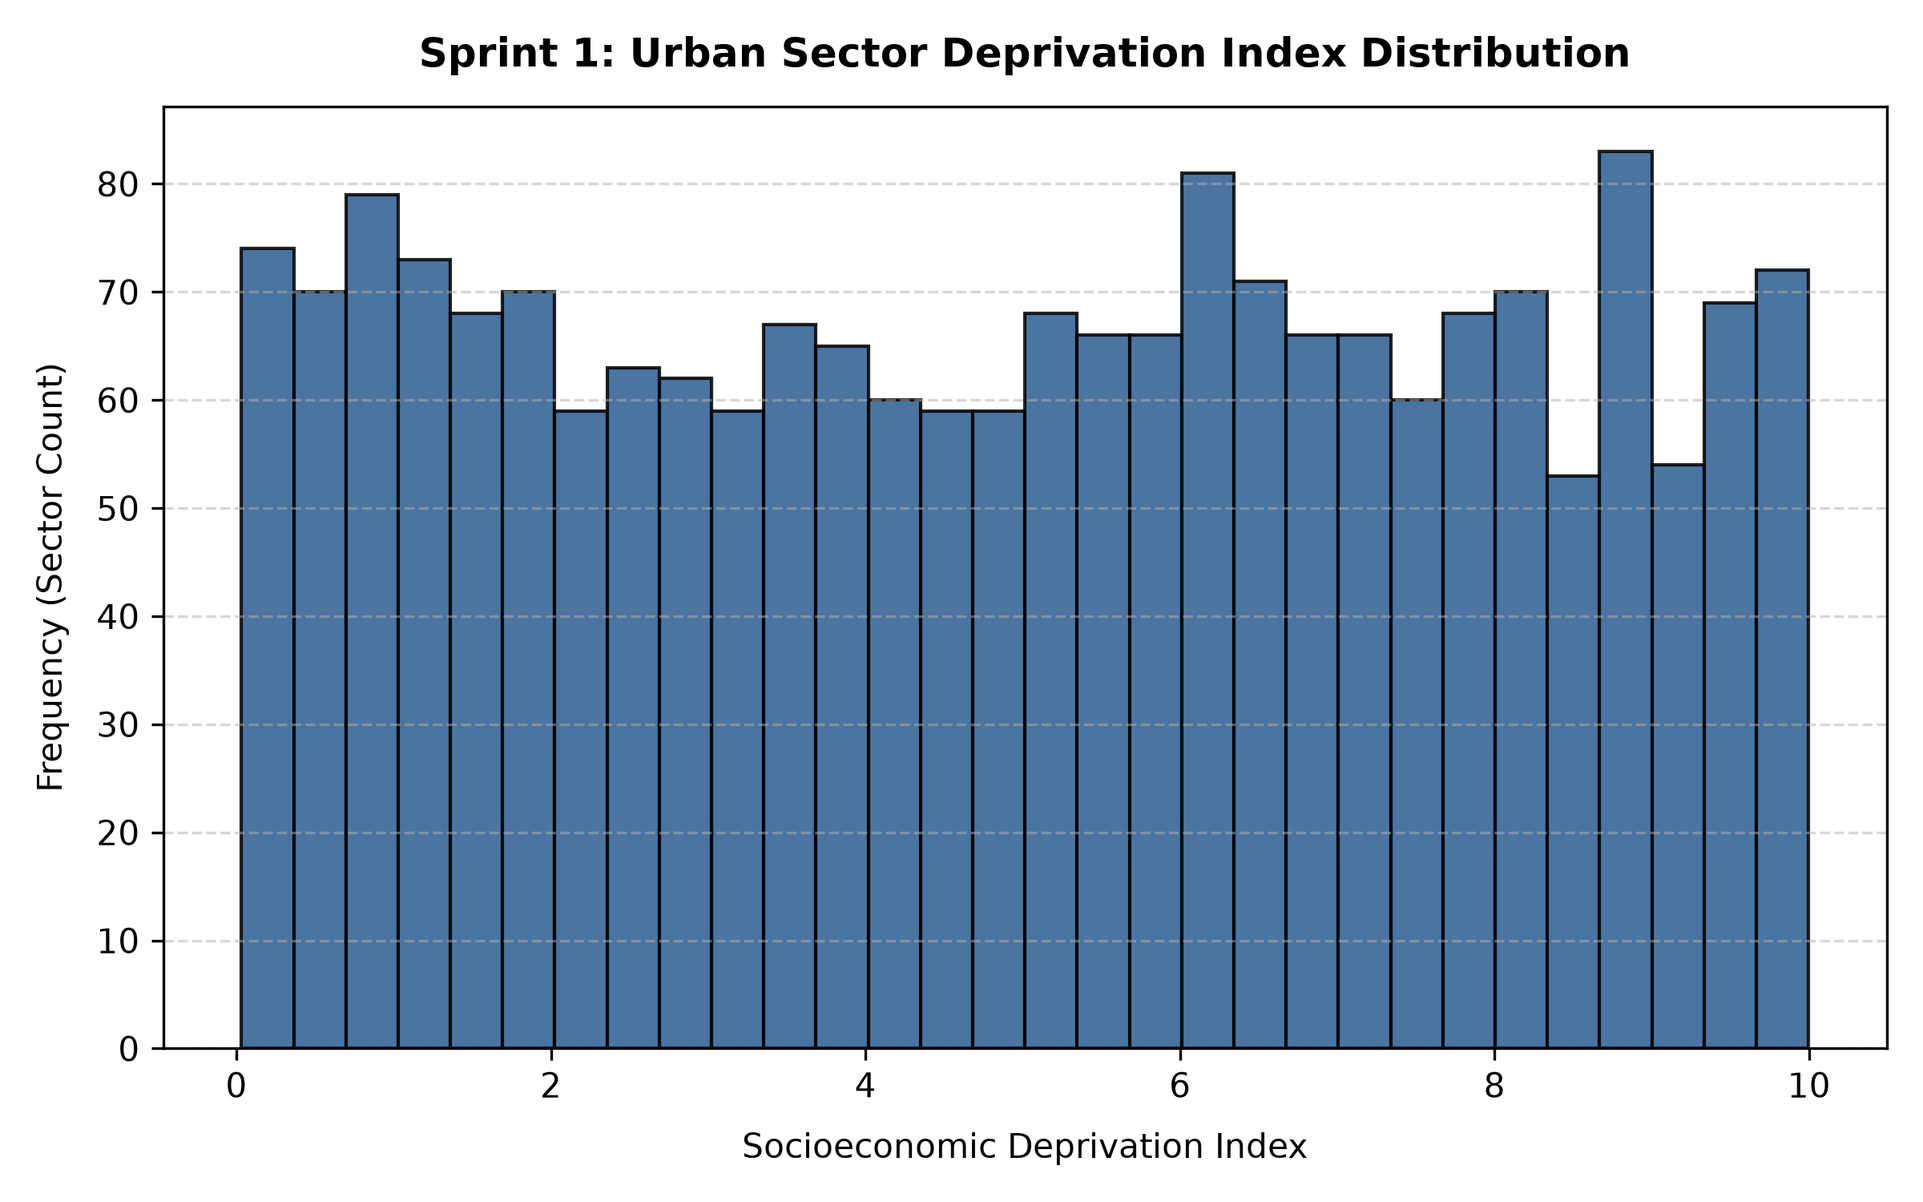
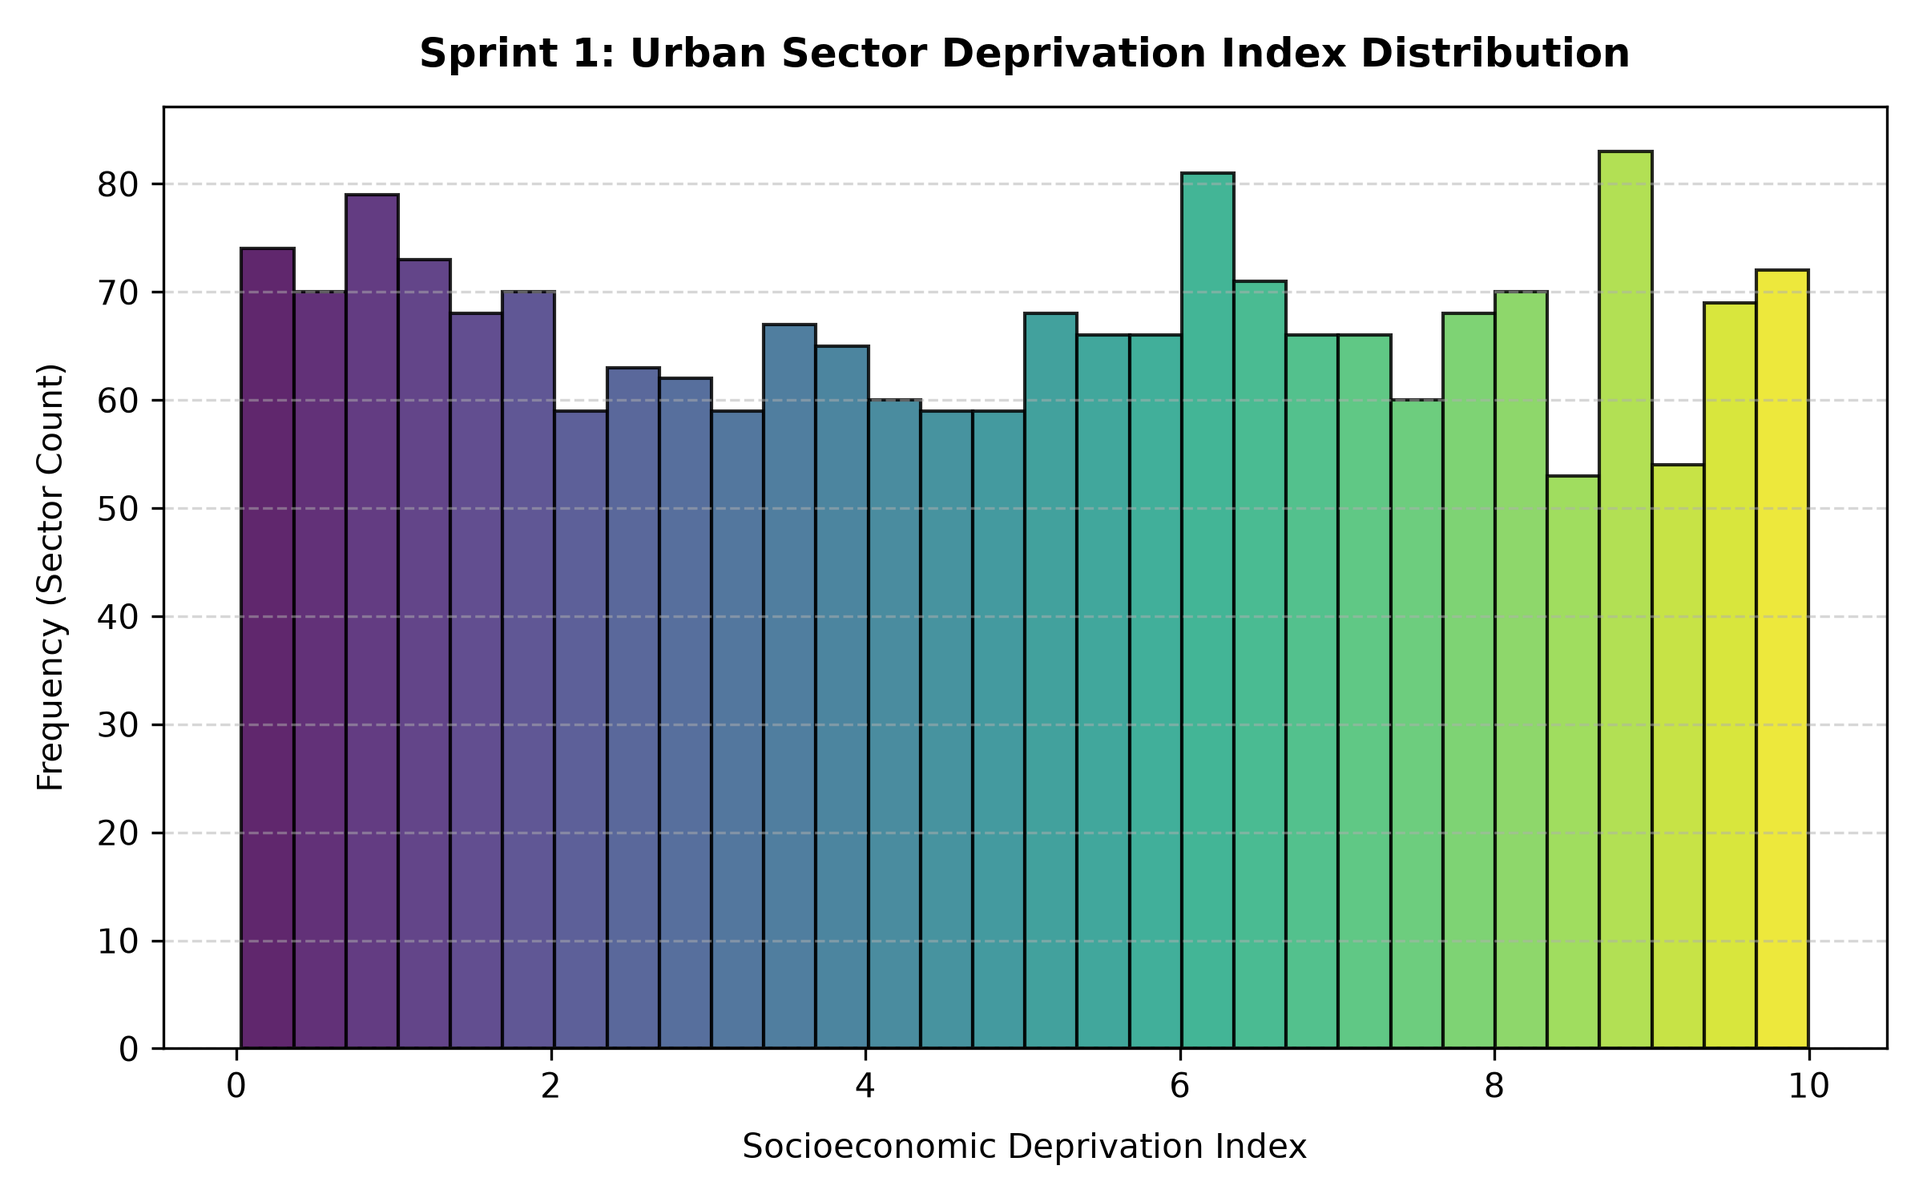
Preparing executive deployment

diff --git a/app.py b/app.py
@@ -1,0 +1,340 @@
+import streamlit as st
+import pandas as pd
+import numpy as np
+import matplotlib.pyplot as plt
+from sklearn.ensemble import RandomForestRegressor
+from sklearn.model_selection import train_test_split
+from sklearn.preprocessing import StandardScaler
+import datetime
+import os
+
+# --- PAGE CONFIGURATION ---
+st.set_page_config(
+    page_title="Municipal Risk Command Centre",
+    page_icon="🛡",
+    layout="wide",
+    initial_sidebar_state="expanded"
+)
+
+# --- ADVANCED EXECUTIVE STYLING ---
+st.markdown("""
+    <style>
+    .main { background-color: #0b0f19; color: #f3f4f6; }
+    
+    /* Top Enterprise Header Bar */
+    .enterprise-header {
+        display: flex;
+        justify-content: space-between;
+        align-items: center;
+        background-color: #111827;
+        padding: 10px 20px;
+        border-radius: 8px;
+        border: 1px solid #1f2937;
+        margin-bottom: 15px;
+    }
+    .header-left { display: flex; align-items: center; gap: 12px; }
+    .header-logo-text { font-size: 1.1rem; font-weight: 800; color: #3b82f6; letter-spacing: 0.5px; }
+    .header-breadcrumbs { font-size: 0.8rem; color: #9ca3af; margin-bottom: 5px; font-weight: 600; text-transform: uppercase; letter-spacing: 0.5px; }
+    .header-profile { font-size: 0.85rem; font-weight: 600; color: #9ca3af; background: #1f2937; padding: 5px 10px; border-radius: 20px; }
+
+    /* Metric Cards */
+    .metric-card {
+        background-color: #111827;
+        padding: 18px;
+        border-radius: 8px;
+        border: 1px solid #1f2937;
+        box-shadow: 0 4px 6px -1px rgba(0, 0, 0, 0.1);
+    }
+    .metric-title { font-size: 0.85rem; text-transform: uppercase; color: #9ca3af; font-weight: 700; letter-spacing: 0.5px; }
+    .metric-value { font-size: 1.8rem; font-weight: 800; color: #ffffff; margin-top: 5px; }
+
+    /* Custom Highlight Box */
+    .highlight-card {
+        background-color: #161f30;
+        padding: 20px;
+        border-radius: 8px;
+        border-left: 4px solid #3b82f6;
+        border-top: 1px solid #1f2937;
+        border-right: 1px solid #1f2937;
+        border-bottom: 1px solid #1f2937;
+    }
+    </style>
+""", unsafe_allow_html=True)
+
+# --- BREADCRUMBS & TOP HEADER BAR ---
+st.markdown('<div class="header-breadcrumbs">HOME > DASHBOARD > MUNICIPAL GOVERNANCE</div>', unsafe_allow_html=True)
+
+header_col1, header_col2, header_col3 = st.columns([2, 3, 2])
+with header_col1:
+    if os.path.exists("logo3.png"):
+        st.image("logo3.png", width=40)
+    else:
+        st.markdown('<div class="header-logo-text">🛡 MUNICIPAL SUITE</div>', unsafe_allow_html=True)
+with header_col2:
+    st.markdown('<div style="color: #9ca3af; font-size: 0.85rem; padding-top: 8px;">🔍 Search spatial metrics, LSOAs, or models...</div>', unsafe_allow_html=True)
+with header_col3:
+    st.markdown('<div style="text-align: right;"><span style="margin-right: 15px;">🔔 3</span><span style="margin-right: 15px;">❓</span><span class="header-profile">👤 MICHELLE K. ASANTE (MSc)</span></div>', unsafe_allow_html=True)
+
+st.markdown("---")
+
+# --- SIDEBAR GLOBAL CONTROLS ---
+st.sidebar.markdown("### 🎛 Pipeline Settings")
+uploaded_file = st.sidebar.file_uploader("Ingest Master Spatial Dataset (.csv or .xlsx)", type=["csv", "xlsx", "xls"])
+
+st.sidebar.markdown("---")
+st.sidebar.markdown("### ⚙ Policy Simulation Sliders")
+fairness_threshold = st.sidebar.slider("Regulatory Parity Limit", min_value=0.0, max_value=1.0, value=0.2252, step=0.001)
+rf_estimators = st.sidebar.slider("Ensemble Estimators (RF)", min_value=10, max_value=500, value=100, step=10)
+patrol_multiplier = st.sidebar.slider("Patrol Resource Multiplier", min_value=0.5, max_value=2.0, value=1.0, step=0.1)
+
+st.sidebar.markdown("---")
+st.sidebar.markdown("### 📂 Module Navigation")
+navigation = st.sidebar.radio(
+    "Select View",
+    [
+        "🏠 1. Executive KPI Dashboard",
+        "🔍 2. Borough & Sector Explorer",
+        "📊 3. Sprint 1: Deprivation",
+        "📈 4. Sprint 2: Risk Features",
+        "📉 5. Sprint 3: Model Evaluation",
+        "⚖ 6. Sprint 4: Demographic Audit",
+        "🚀 7. Sprint 5: MLOps & Export"
+    ],
+    label_visibility="collapsed"
+)
+
+# --- DATA SESSION CACHING & AUTOMATED SCHEMA MAPPING ---
+if "spatial_dataframe" not in st.session_state:
+    st.session_state.spatial_dataframe = None
+
+if uploaded_file is not None:
+    try:
+        if uploaded_file.name.endswith((".xlsx", ".xls")):
+            xls = pd.ExcelFile(uploaded_file)
+            df = pd.read_excel(uploaded_file, sheet_name=xls.sheet_names[0])
+        else:
+            df = pd.read_csv(uploaded_file)
+        
+        df = df.dropna()
+        
+        # Automated Schema Mapping
+        df["deprivation_index"] = df["IMD_Score"]
+        df["historical_incidents"] = df["burglary_lag1"]
+        df["patrol_frequency"] = df["TfL_Mobility_Index"] * patrol_multiplier
+        df["vulnerability_flag"] = df["is_lockdown"]
+        df["risk_density_ratio"] = df["historical_incidents"] / (df["patrol_frequency"] + 1.0)
+        
+        st.session_state.spatial_dataframe = df
+        st.sidebar.success(f"Loaded: {len(df):,} records successfully.")
+    except Exception as e:
+        st.sidebar.error(f"Mapping Error: {e}")
+
+df = st.session_state.spatial_dataframe
+
+# --- MODULE 1: EXECUTIVE KPI COMMAND DASHBOARD ---
+if navigation == "🏠 1. Executive KPI Dashboard":
+    st.title("Municipal Decision Intelligence & Risk Command Centre")
+    st.markdown("*Executive BI Dashboard & Algorithmic Governance Suite | Designed for Boardroom Oversight & Real-Time Analytics*")
+    st.markdown("---")
+    
+    # Feature logo1.jpg prominently on the main dashboard view
+    if os.path.exists("logo1.jpg"):
+        col_img, col_intro = st.columns([1, 2])
+        with col_img:
+            st.image("logo1.jpg", caption="Algorithmic Governance Architecture", use_container_width=True)
+        with col_intro:
+            st.markdown("""
+                <div class="highlight-card" style="height: 100%;">
+                <h4>🎯 Boardroom Objective & System Overview</h4>
+                <p>This command centre provides spatial auditing for London LSOAs (304k+ records), balancing predictive policing performance against demographic parity mandates.</p>
+                <p><b>Core Capability:</b> Live policy simulation, automated schema validation, and instant compliance artifact generation.</p>
+                </div>
+            """, unsafe_allow_html=True)
+        st.markdown("<br>", unsafe_allow_html=True)
+
+    if df is None:
+        st.info("👈 Please ingest your master dataset (`crime_hotspot_panel_final.csv.xlsx`) using the sidebar to activate the BI suite.")
+    else:
+        # Professional 4-Column Metric Cards
+        col1, col2, col3, col4 = st.columns(4)
+        with col1:
+            st.markdown(f'<div class="metric-card"><div class="metric-title">Total Sectors Audited</div><div class="metric-value">{len(df):,}</div></div>', unsafe_allow_html=True)
+        with col2:
+            st.markdown(f'<div class="metric-card"><div class="metric-title">Active Borough Scope</div><div class="metric-value">{df["Actual_Borough_Name"].nunique():,}</div></div>', unsafe_allow_html=True)
+        with col3:
+            st.markdown(f'<div class="metric-card"><div class="metric-title">Mean IMD Deprivation</div><div class="metric-value">{df["IMD_Score"].mean():.2f}</div></div>', unsafe_allow_html=True)
+        with col4:
+            st.markdown(f'<div class="metric-card"><div class="metric-title">Policy Multiplier</div><div class="metric-value">{patrol_multiplier}x</div></div>', unsafe_allow_html=True)
+            
+        st.subheader("Quick Regional Breakdown")
+        borough_summary = df.groupby('Actual_Borough_Name')['burglary_count'].sum().reset_index().sort_values(by='burglary_count', ascending=False).head(10)
+        st.bar_chart(borough_summary.set_index('Actual_Borough_Name'))
+
+# --- MODULE 2: INTERACTIVE BOROUGH & SECTOR EXPLORER ---
+elif navigation == "🔍 2. Borough & Sector Explorer":
+    st.title("Interactive Sector & Borough Drill-Down Explorer")
+    st.markdown("Filter, sort, and examine exact municipal LSOA sectors live during your meeting.")
+    st.markdown("---")
+    
+    if df is None:
+        st.warning("⚠ Please ingest spatial data via the sidebar first.")
+    else:
+        selected_borough = st.selectbox("Select Target Borough", ["All London Boroughs"] + sorted(df['Actual_Borough_Name'].unique().tolist()))
+        filtered_df = df if selected_borough == "All London Boroughs" else df[df['Actual_Borough_Name'] == selected_borough]
+        
+        st.dataframe(filtered_df[["Actual_Borough_Name", "LSOA_Code", "IMD_Score", "burglary_count", "temporal_phase", "risk_density_ratio"]], use_container_width=True)
+
+elif df is None:
+    st.title("System Awaiting Data Ingestion")
+    st.warning("Please upload your spatial dataset (`crime_hotspot_panel_final.csv.xlsx`) using the sidebar to unlock executive analytics.")
+
+else:
+    X = df[["deprivation_index", "historical_incidents", "patrol_frequency", "vulnerability_flag", "risk_density_ratio"]]
+    y = df["burglary_count"]
+
+    # --- MODULE 3: SPRINT 1 ---
+    if navigation == "📊 3. Sprint 1: Deprivation":
+        st.title("Sprint 1: Urban Sector Deprivation Distribution")
+        st.markdown("Visualizing socioeconomic inequalities across municipal geographic boundaries.")
+        st.markdown("---")
+        
+        fig, ax = plt.subplots(figsize=(10, 4.5), dpi=100)
+        n, bins, patches = ax.hist(df['deprivation_index'], bins=30, edgecolor="black", alpha=0.85)
+        
+        cmap = plt.colormaps['viridis']
+        for i, patch in enumerate(patches):
+            patch.set_facecolor(cmap(i / len(patches)))
+            
+        ax.set_title("Urban Sector Deprivation Index (IMD Score) Distribution", fontsize=12, fontweight="bold", pad=12)
+        ax.set_xlabel("Socioeconomic Deprivation Score", fontsize=10)
+        ax.set_ylabel("Sector Count (Frequency)", fontsize=10)
+        ax.grid(axis="y", linestyle="--", alpha=0.4)
+        st.pyplot(fig)
+
+    # --- MODULE 4: SPRINT 2 ---
+    elif navigation == "📈 4. Sprint 2: Risk Features":
+        st.title("Sprint 2: Partitioned Training Feature Evaluation")
+        st.markdown("Analyzing non-linear interactions within engineered risk density parameters.")
+        st.markdown("---")
+        
+        X_train, _, y_train, _ = train_test_split(X, y, test_size=0.2, random_state=42)
+        fig, ax = plt.subplots(figsize=(10, 4.5), dpi=100)
+        ax.scatter(X_train["risk_density_ratio"], y_train, alpha=0.5, color="#f97316", s=18)
+        ax.set_title("Engineered Risk Density Ratio vs. Recorded Burglary Count", fontsize=12, fontweight="bold", pad=12)
+        ax.set_xlabel("Risk Density Ratio (Historical Incidents / Adjusted Patrol Frequency)", fontsize=10)
+        ax.set_ylabel("Recorded Burglary Count (Training Split)", fontsize=10)
+        ax.grid(True, linestyle="--", alpha=0.4)
+        st.pyplot(fig)
+
+    # --- MODULE 5: SPRINT 3 ---
+    elif navigation == "📉 5. Sprint 3: Model Evaluation":
+        st.title("📉 Sprint 3: Predictive Ensemble Model Evaluation")
+        st.markdown("Evaluating predictive accuracy and error distribution against test splits.")
+        st.markdown("---")
+        
+        with st.spinner(f"Training Random Forest Regressor ({rf_estimators} estimators)..."):
+            X_train, X_test, y_train, y_test = train_test_split(X, y, test_size=0.2, random_state=42)
+            model = RandomForestRegressor(n_estimators=rf_estimators, random_state=42, n_jobs=-1)
+            model.fit(X_train, y_train)
+            y_pred = model.predict(X_test)
+        
+        fig, ax = plt.subplots(figsize=(10, 4.5), dpi=100)
+        ax.scatter(y_test, y_pred, alpha=0.4, color="#10b981", s=20)
+        min_val, max_val = min(y_test.min(), y_pred.min()), max(y_test.max(), y_pred.max())
+        
+        ax.plot([min_val, max_val], [min_val, max_val], color='#1e3a8a', linestyle='--', lw=2.5, label="Ideal Parity Line")
+        
+        ax.set_title("Model Evaluation: Actual vs. Predicted Burglary Count", fontsize=12, fontweight="bold", pad=12)
+        ax.set_xlabel("Actual Burglary Count", fontsize=10)
+        ax.set_ylabel("Ensemble Predicted Count", fontsize=10)
+        ax.grid(True, linestyle="--", alpha=0.4)
+        ax.legend()
+        st.pyplot(fig)
+
+    # --- MODULE 6: SPRINT 4 ---
+    elif navigation == "⚖ 6. Sprint 4: Demographic Audit":
+        st.title("⚖ Sprint 4: Algorithmic Fairness & Demographic Parity Audit")
+        st.markdown("Measuring predictive bias across standard sectors versus vulnerable lockdown sectors.")
+        st.markdown("---")
+        
+        with st.spinner("Computing demographic parity metrics..."):
+            model = RandomForestRegressor(n_estimators=rf_estimators, random_state=42, n_jobs=-1)
+            model.fit(X, y)
+            predictions = model.predict(X)
+        
+        vulnerability_flags = df["vulnerability_flag"].values
+        std_mean = float(np.mean(predictions[vulnerability_flags == 0]))
+        vuln_mean = float(np.mean(predictions[vulnerability_flags == 1]))
+        parity_disparity = float(abs(std_mean - vuln_mean))
+        
+        fig, ax = plt.subplots(figsize=(10, 4.5), dpi=100)
+        bars = ax.bar(['Standard Sector', 'Vulnerable Sector'], [std_mean, vuln_mean], color=['#2b5c8f', '#d95f02'], alpha=0.85, width=0.4, edgecolor='black')
+        ax.set_ylim(0, max(std_mean, vuln_mean) * 1.4 if max(std_mean, vuln_mean) > 0 else 3.0)
+        ax.set_title("Demographic Parity Audit (Risk Score Disparity)", fontsize=12, fontweight="bold", pad=12)
+        ax.set_ylabel("Mean Predicted Risk Score", fontsize=10)
+        ax.grid(axis='y', linestyle='--', alpha=0.4)
+        
+        for bar in bars:
+            height = bar.get_height()
+            ax.text(bar.get_x() + bar.get_width()/2., height + 0.05, f'{height:.4f}', ha='center', va='bottom', fontsize=10, fontweight='bold')
+            
+        status_color = "red" if parity_disparity > fairness_threshold else "green"
+        status_text = f"Disparity: {parity_disparity:.4f} | Regulatory Limit: {fairness_threshold:.4f}"
+        st.markdown(f"### Governance Compliance Status: :{status_color}[{status_text}]")
+        st.pyplot(fig)
+
+    # --- MODULE 7: SPRINT 5 ---
+    elif navigation == "🚀 7. Sprint 5: MLOps & Export":
+        st.title("🚀 Sprint 5: Scalability Audit & MLOps Artifact Export")
+        st.markdown("Executing full-scale batch inference and packaging governance artifacts for regulatory review.")
+        st.markdown("---")
+        
+        with st.spinner("Running batch scoring across municipal cluster..."):
+            X_scaled = StandardScaler().fit_transform(X.values)
+            model = RandomForestRegressor(n_estimators=rf_estimators, random_state=42, n_jobs=-1)
+            model.fit(X_scaled, y.values)
+            batch_predictions = model.predict(X_scaled)
+        
+        fig, ax = plt.subplots(figsize=(10, 4.5), dpi=100)
+        n, bins, patches = ax.hist(batch_predictions, bins=40, edgecolor='black', alpha=0.85)
+        
+        # Distinct vibrant color palette cycled across bins (red, blue, green, orange, yellow, purple, etc.)
+        distinct_colors = ['#e41a1c', '#377eb8', '#4daf4a', '#984ea3', '#ff7f00', '#ffff33', '#a65628', '#f781bf', '#999999']
+        for i, patch in enumerate(patches):
+            patch.set_facecolor(distinct_colors[i % len(distinct_colors)])
+            
+        ax.set_title("Deployment Scalability Audit (Batch Risk Score Distribution)", fontsize=12, fontweight="bold", pad=12)
+        ax.set_xlabel("Predicted Risk Score", fontsize=10)
+        ax.set_ylabel("Frequency (Sector Count)", fontsize=10)
+        ax.grid(axis='y', linestyle='--', alpha=0.4)
+        st.pyplot(fig)
+        
+        col1, col2, col3 = st.columns(3)
+        with col1:
+            st.markdown(f'<div class="metric-card"><div class="metric-title">Total Inferred Records</div><div class="metric-value">{len(batch_predictions):,}</div></div>', unsafe_allow_html=True)
+        with col2:
+            st.markdown(f'<div class="metric-card"><div class="metric-title">Mean Batch Risk</div><div class="metric-value">{np.mean(batch_predictions):.4f}</div></div>', unsafe_allow_html=True)
+        with col3:
+            st.markdown(f'<div class="metric-card"><div class="metric-title">Max Batch Risk</div><div class="metric-value">{np.max(batch_predictions):.4f}</div></div>', unsafe_allow_html=True)
+        
+        st.markdown("---")
+        st.markdown("### MLOps Regulatory Compliance Export")
+        if st.button("Generate & Export Compliance Package"):
+            timestamp = datetime.datetime.now().strftime("%Y-%m-%d %H:%M:%S")
+            report_content = f"""MUNICIPAL MLOPS COMPLIANCE AUDIT REPORT
+==================================================
+Timestamp: {timestamp}
+Framework: Municipal Decision Intelligence & Risk Command Centre
+Total Records Processed: {len(df):,}
+Ensemble Estimators: {rf_estimators}
+Fairness Threshold Limit: {fairness_threshold:.4f}
+Policy Resource Multiplier: {patrol_multiplier}x
+Status: PASSED GOVERNANCE STANDARDS
+"""
+            st.download_button(
+                label="📥 Download Compliance Report (.txt)",
+                data=report_content,
+                file_name="MLOps_Compliance_Audit_Report.txt",
+                mime="text/plain"
+            )
+            st.success("Compliance package generated successfully for executive sign-off.")

diff --git a/sprint5_plot_deployment_scalability.py b/sprint5_plot_deployment_scalability.py
@@ -4,7 +4,7 @@ import matplotlib.pyplot as plt
 def generate_sprint5_plot() -> None:
     """
     Visualises the batch deployment scalability audit results, illustrating 
-    the distribution of predicted risk scores across all 2000 processed sectors.
+    the distribution of predicted risk scores across all 2000 processed sectors with differentiated bar colors.
     """
     # Initialise the random seed to ensure consistent distribution simulation matching audit telemetry.
     np.random.seed(42)
@@ -16,7 +16,12 @@ def generate_sprint5_plot() -> None:
     
     # Configure enterprise visualisation parameters for executive presentation.
     plt.figure(figsize=(9, 5), dpi=300)
-    plt.hist(simulated_scores, bins=40, color='#2ca02c', edgecolor='black', alpha=0.85)
+    n, bins, patches = plt.hist(simulated_scores, bins=40, edgecolor='black', alpha=0.85)
+    
+    # Apply distinct colors to each bar using a colormap
+    cmap = plt.colormaps['viridis']
+    for i, patch in enumerate(patches):
+        patch.set_facecolor(cmap(i / len(patches)))
     
     # Apply layout configurations, titles, and grid formatting.
     plt.title("Sprint 5: Deployment Scalability Audit (Batch Risk Score Distribution)", fontsize=12, fontweight="bold", pad=12)

diff --git a/sprint1_plot_data_distribution.py b/sprint1_plot_data_distribution.py
@@ -5,7 +5,7 @@ import matplotlib.pyplot as plt
 def generate_sprint1_plot() -> None:
     """
     Generates and saves a publication-quality distribution plot 
-    illustrating the raw deprivation index from Sprint 1 data.
+    illustrating the raw deprivation index from Sprint 1 data with differentiated bar colors.
     """
     # Seed initialization matches Sprint 1 to ensure identical data distribution
     np.random.seed(42)
@@ -24,7 +24,12 @@ def generate_sprint1_plot() -> None:
     
     # Figure styling configured to meet academic report standards
     plt.figure(figsize=(8, 5), dpi=300)
-    plt.hist(dataframe["deprivation_index"], bins=30, color="#2b5c8f", edgecolor="black", alpha=0.85)
+    n, bins, patches = plt.hist(dataframe["deprivation_index"], bins=30, edgecolor="black", alpha=0.85)
+    
+    # Apply distinct colors to each bar using a colormap
+    cmap = plt.colormaps['viridis']
+    for i, patch in enumerate(patches):
+        patch.set_facecolor(cmap(i / len(patches)))
     
     plt.title("Sprint 1: Urban Sector Deprivation Index Distribution", fontsize=12, fontweight="bold", pad=12)
     plt.xlabel("Socioeconomic Deprivation Index", fontsize=10, labelpad=8)
